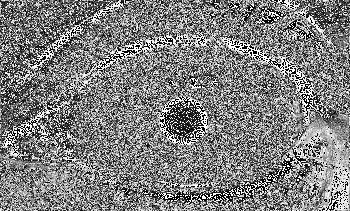
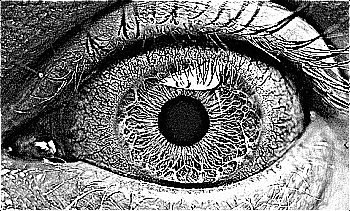
Ajuste da função de aguçamento. Algumas outras melhorias pequenas

diff --git a/main.py b/main.py
@@ -27,68 +27,68 @@ img2 = np.array(imagem2.getdata()).reshape((height2, width2, 1))
 
 
 
-# Filtragem com filtro media mascara 3 - IMG1
-print('Filtragem com filtro media mascara 3 - IMG1')
-mean_out = new_filter.mean(img).evaluate()
-newImage = Image.fromarray(mean_out.astype('uint8').reshape((height, width)), 'L')
-newImageName = path_out_imgs + "IMG1/" + 'IMG1_mean_3_out.png'
-newImage.save(newImageName)
+# # Filtragem com filtro media mascara 3 - IMG1
+# print('Filtragem com filtro media mascara 3 - IMG1')
+# mean_out = new_filter.mean(img).evaluate()
+# newImage = Image.fromarray(mean_out.astype('uint8').reshape((height, width)), 'L')
+# newImageName = path_out_imgs + "IMG1/" + 'IMG1_mean_3_out.png'
+# newImage.save(newImageName)
 
-# Filtragem com filtro media mascara 3 - IMG2
-print('Filtragem com filtro media mascara 3 - IMG2')
-mean_out = new_filter.mean(img2).evaluate()
-newImage = Image.fromarray(mean_out.astype('uint8').reshape((height2, width2)), 'L')
-newImageName = path_out_imgs + "IMG2/" + 'IMG2_mean_3_out.png'
-newImage.save(newImageName)
+# # Filtragem com filtro media mascara 3 - IMG2
+# print('Filtragem com filtro media mascara 3 - IMG2')
+# mean_out = new_filter.mean(img2).evaluate()
+# newImage = Image.fromarray(mean_out.astype('uint8').reshape((height2, width2)), 'L')
+# newImageName = path_out_imgs + "IMG2/" + 'IMG2_mean_3_out.png'
+# newImage.save(newImageName)
 
-# Filtragem com filtro media mascara 5 - IMG1
-print("Filtragem com filtro media mascara 5 - IMG1")
-mean_out = new_filter.mean(img, mask=5).evaluate()
-newImage = Image.fromarray(mean_out.astype('uint8').reshape((height, width)), 'L')
-newImageName = path_out_imgs + "IMG1/" + 'IMG1_mean_5_out.png'
-newImage.save(newImageName)
+# # Filtragem com filtro media mascara 5 - IMG1
+# print("Filtragem com filtro media mascara 5 - IMG1")
+# mean_out = new_filter.mean(img, mask=5).evaluate()
+# newImage = Image.fromarray(mean_out.astype('uint8').reshape((height, width)), 'L')
+# newImageName = path_out_imgs + "IMG1/" + 'IMG1_mean_5_out.png'
+# newImage.save(newImageName)
 
-# Filtragem com filtro media mascara 5 - IMG2
-print("Filtragem com filtro media mascara 5 - IMG2")
-mean_out = new_filter.mean(img2, mask=5).evaluate()
-newImage = Image.fromarray(mean_out.astype('uint8').reshape((height2, width2)), 'L')
-newImageName = path_out_imgs + "IMG2/" + 'IMG2_mean_5_out.png'
-newImage.save(newImageName)
+# # Filtragem com filtro media mascara 5 - IMG2
+# print("Filtragem com filtro media mascara 15 - IMG2")
+# mean_out = new_filter.mean(img2, mask=15).evaluate()
+# newImage = Image.fromarray(mean_out.astype('uint8').reshape((height2, width2)), 'L')
+# newImageName = path_out_imgs + "IMG2/" + 'IMG2_mean_15_out.png'
+# newImage.save(newImageName)
 
-# Filtragem com filtro gaussiano mascara 3 - IMG1
-print("Filtragem com filtro gaussiano mascara 3 - IMG1")
-gauss_out = new_filter.gaussian(img).evaluate()
-newImage = Image.fromarray(gauss_out.astype('uint8').reshape((height, width)), 'L')
-newImageName = path_out_imgs + "IMG1/" + 'IMG1_gauss_3_out.png'
-newImage.save(newImageName)
+# # Filtragem com filtro gaussiano mascara 3 - IMG1
+# print("Filtragem com filtro gaussiano mascara 3 - IMG1")
+# gauss_out = new_filter.gaussian(img).evaluate()
+# newImage = Image.fromarray(gauss_out.astype('uint8').reshape((height, width)), 'L')
+# newImageName = path_out_imgs + "IMG1/" + 'IMG1_gauss_3_out.png'
+# newImage.save(newImageName)
 
-# Filtragem com filtro gaussiano mascara 3 - IMG2
-print("Filtragem com filtro gaussiano mascara 3 - IMG2")
-gauss_out = new_filter.gaussian(img2).evaluate()
-newImage = Image.fromarray(gauss_out.astype('uint8').reshape((height2, width2)), 'L')
-newImageName = path_out_imgs + "IMG2/" + 'IMG2_gauss_3_out.png'
-newImage.save(newImageName)
+# # Filtragem com filtro gaussiano mascara 3 - IMG2
+# print("Filtragem com filtro gaussiano mascara 3 - IMG2")
+# gauss_out = new_filter.gaussian(img2).evaluate()
+# newImage = Image.fromarray(gauss_out.astype('uint8').reshape((height2, width2)), 'L')
+# newImageName = path_out_imgs + "IMG2/" + 'IMG2_gauss_3_out.png'
+# newImage.save(newImageName)
 
-# Filtragem com filtro gaussiano mascara 5 - IMG1
-print("Filtragem com filtro gaussiano mascara 5 - IMG1")
-gauss_out = new_filter.gaussian(img, mask=5).evaluate()
-newImage = Image.fromarray(gauss_out.astype('uint8').reshape((height, width)), 'L')
-newImageName = path_out_imgs + "IMG1/" + 'IMG1_gauss_5_out.png'
-newImage.save(newImageName)
+# # Filtragem com filtro gaussiano mascara 5 - IMG1
+# print("Filtragem com filtro gaussiano mascara 5 - IMG1")
+# gauss_out = new_filter.gaussian(img, mask=5).evaluate()
+# newImage = Image.fromarray(gauss_out.astype('uint8').reshape((height, width)), 'L')
+# newImageName = path_out_imgs + "IMG1/" + 'IMG1_gauss_5_out.png'
+# newImage.save(newImageName)
 
-# Filtragem com filtro gaussiano mascara 5 - IMG2
-print("Filtragem com filtro gaussiano mascara 5 - IMG2")
-gauss_out = new_filter.gaussian(img2, mask=5).evaluate()
-newImage = Image.fromarray(gauss_out.astype('uint8').reshape((height2, width2)), 'L')
-newImageName = path_out_imgs + "IMG2/" + 'IMG2_gauss_5_out.png'
-newImage.save(newImageName)
+# # Filtragem com filtro gaussiano mascara 5 - IMG2
+# print("Filtragem com filtro gaussiano mascara 5 - IMG2")
+# gauss_out = new_filter.gaussian(img2, mask=5).evaluate()
+# newImage = Image.fromarray(gauss_out.astype('uint8').reshape((height2, width2)), 'L')
+# newImageName = path_out_imgs + "IMG2/" + 'IMG2_gauss_5_out.png'
+# newImage.save(newImageName)
 
-# # Filtragem com filtro laplace mascara 3
-print('Filtragem com filtro laplace mascara 3')
-laplace_out = SharpeningFilter(img).evaluate()
-newImage = Image.fromarray(laplace_out.astype('uint8').reshape((height, width)), 'L')
-newImageName = path_out_imgs + 'IMG1/' + 'IMG1_laplace_3_out.png'
-newImage.save(newImageName)
+# # # Filtragem com filtro laplace mascara 3
+# print('Filtragem com filtro laplace mascara 3')
+# laplace_out = SharpeningFilter(img).evaluate()
+# newImage = Image.fromarray(laplace_out.astype('uint8').reshape((height, width)), 'L')
+# newImageName = path_out_imgs + 'IMG1/' + 'IMG1_laplace_3_out.png'
+# newImage.save(newImageName)
 
 # Filtragem com filtro laplace mascara 3
 print('Filtragem com filtro laplace mascara 3 IMG2')
@@ -97,78 +97,78 @@ newImage = Image.fromarray(laplace_out.astype('uint8').reshape((height2, width2)
 newImageName = path_out_imgs + 'IMG2/' + 'IMG2_laplace_3_out.png'
 newImage.save(newImageName)
 
-# Filtragem com filtro mediana mascara 3 - IMG1
-print("Filtragem com filtro mediana mascara 3 - IMG1")
-mean_out = rank_filter.median(img, mask=3).evaluate()
-newImage = Image.fromarray(mean_out.astype('uint8').reshape((height, width)), 'L')
-newImageName = path_out_imgs + "IMG1/" + 'IMG1_median_3_out.png'
-newImage.save(newImageName)
+# # Filtragem com filtro mediana mascara 3 - IMG1
+# print("Filtragem com filtro mediana mascara 3 - IMG1")
+# mean_out = rank_filter.median(img, mask=3).evaluate()
+# newImage = Image.fromarray(mean_out.astype('uint8').reshape((height, width)), 'L')
+# newImageName = path_out_imgs + "IMG1/" + 'IMG1_median_3_out.png'
+# newImage.save(newImageName)
 
-# Filtragem com filtro mediana mascara 3 - IMG2
-print("Filtragem com filtro mediana mascara 3 - IMG2")
-mean_out = rank_filter.median(img2, mask=3).evaluate()
-newImage = Image.fromarray(mean_out.astype('uint8').reshape((height2, width2)), 'L')
-newImageName = path_out_imgs + "IMG2/" + 'IMG2_median_3_out.png'
-newImage.save(newImageName)
+# # Filtragem com filtro mediana mascara 3 - IMG2
+# print("Filtragem com filtro mediana mascara 3 - IMG2")
+# mean_out = rank_filter.median(img2, mask=3).evaluate()
+# newImage = Image.fromarray(mean_out.astype('uint8').reshape((height2, width2)), 'L')
+# newImageName = path_out_imgs + "IMG2/" + 'IMG2_median_3_out.png'
+# newImage.save(newImageName)
 
-# Filtragem com filtro mediana mascara 5 - IMG1
-print("Filtragem com filtro mediana mascara 5 - IMG1")
-mean_out = rank_filter.median(img, mask=5).evaluate()
-newImage = Image.fromarray(mean_out.astype('uint8').reshape((height, width)), 'L')
-newImageName = path_out_imgs + "IMG1/" + 'IMG1_median_5_out.png'
-newImage.save(newImageName)
+# # Filtragem com filtro mediana mascara 5 - IMG1
+# print("Filtragem com filtro mediana mascara 5 - IMG1")
+# mean_out = rank_filter.median(img, mask=5).evaluate()
+# newImage = Image.fromarray(mean_out.astype('uint8').reshape((height, width)), 'L')
+# newImageName = path_out_imgs + "IMG1/" + 'IMG1_median_5_out.png'
+# newImage.save(newImageName)
 
-# Filtragem com filtro mediana mascara 5 - IMG2
-print("Filtragem com filtro mediana mascara 5 - IMG2")
-mean_out = rank_filter.median(img2, mask=5).evaluate()
-newImage = Image.fromarray(mean_out.astype('uint8').reshape((height2, width2)), 'L')
-newImageName = path_out_imgs + "IMG2/" + 'IMG2_median_5_out.png'
-newImage.save(newImageName)
+# # Filtragem com filtro mediana mascara 5 - IMG2
+# print("Filtragem com filtro mediana mascara 5 - IMG2")
+# mean_out = rank_filter.median(img2, mask=5).evaluate()
+# newImage = Image.fromarray(mean_out.astype('uint8').reshape((height2, width2)), 'L')
+# newImageName = path_out_imgs + "IMG2/" + 'IMG2_median_5_out.png'
+# newImage.save(newImageName)
 
-# Filtragem com filtro de máximo mascara 3 - IMG1
-print("Filtragem com filtro de maximo mascara 3 - IMG1")
-mean_out = rank_filter.maximum(img, mask=3).evaluate()
-newImage = Image.fromarray(mean_out.astype('uint8').reshape((height, width)), 'L')
-newImageName = path_out_imgs + "IMG1/" + 'IMG1_max_3_out.png'
-newImage.save(newImageName)
+# # Filtragem com filtro de máximo mascara 3 - IMG1
+# print("Filtragem com filtro de maximo mascara 3 - IMG1")
+# mean_out = rank_filter.maximum(img, mask=3).evaluate()
+# newImage = Image.fromarray(mean_out.astype('uint8').reshape((height, width)), 'L')
+# newImageName = path_out_imgs + "IMG1/" + 'IMG1_max_3_out.png'
+# newImage.save(newImageName)
 
-# Filtragem com filtro máximo mascara 3 - IMG2
-print("Filtragem com filtro de maximo mascara 3 - IMG2")
-mean_out = rank_filter.maximum(img2, mask=3).evaluate()
-newImage = Image.fromarray(mean_out.astype('uint8').reshape((height2, width2)), 'L')
-newImageName = path_out_imgs + "IMG2/" + 'IMG2_max_3_out.png'
-newImage.save(newImageName)
+# # Filtragem com filtro máximo mascara 3 - IMG2
+# print("Filtragem com filtro de maximo mascara 3 - IMG2")
+# mean_out = rank_filter.maximum(img2, mask=3).evaluate()
+# newImage = Image.fromarray(mean_out.astype('uint8').reshape((height2, width2)), 'L')
+# newImageName = path_out_imgs + "IMG2/" + 'IMG2_max_3_out.png'
+# newImage.save(newImageName)
 
-# Filtragem com filtro de máximo mascara 5 - IMG1
-print("Filtragem com filtro de maximo mascara 5 - IMG1")
-mean_out = rank_filter.maximum(img, mask=5).evaluate()
-newImage = Image.fromarray(mean_out.astype('uint8').reshape((height, width)), 'L')
-newImageName = path_out_imgs + "IMG1/" + 'IMG1_max_5_out.png'
-newImage.save(newImageName)
+# # Filtragem com filtro de máximo mascara 5 - IMG1
+# print("Filtragem com filtro de maximo mascara 5 - IMG1")
+# mean_out = rank_filter.maximum(img, mask=5).evaluate()
+# newImage = Image.fromarray(mean_out.astype('uint8').reshape((height, width)), 'L')
+# newImageName = path_out_imgs + "IMG1/" + 'IMG1_max_5_out.png'
+# newImage.save(newImageName)
 
-# Filtragem com filtro máximo mascara 5 - IMG2
-print("Filtragem com filtro de maximo mascara 5 - IMG2")
-mean_out = rank_filter.maximum(img2, mask=5).evaluate()
-newImage = Image.fromarray(mean_out.astype('uint8').reshape((height2, width2)), 'L')
-newImageName = path_out_imgs + "IMG2/" + 'IMG2_max_5_out.png'
-newImage.save(newImageName)
+# # Filtragem com filtro máximo mascara 5 - IMG2
+# print("Filtragem com filtro de maximo mascara 5 - IMG2")
+# mean_out = rank_filter.maximum(img2, mask=5).evaluate()
+# newImage = Image.fromarray(mean_out.astype('uint8').reshape((height2, width2)), 'L')
+# newImageName = path_out_imgs + "IMG2/" + 'IMG2_max_5_out.png'
+# newImage.save(newImageName)
 
-#Equalização de Histograma - IMG1
-print("Equalização de Histograma - IMG1")
-imgName = path_out_imgs + "IMG1/" + "IMG1"
-hist_eq1 = HistogramEqualization(img,colorDepth,imgName)
-img_out = hist_eq1.evaluate()
-newImage = Image.fromarray(img_out.astype('uint8').reshape((height, width)), 'L')
-newImageName = path_out_imgs + "IMG1/" + 'IMG1_hist_eq_out.png'
-newImage.save(newImageName)
+# #Equalização de Histograma - IMG1
+# print("Equalização de Histograma - IMG1")
+# imgName = path_out_imgs + "IMG1/" + "IMG1"
+# hist_eq1 = HistogramEqualization(img,colorDepth,imgName)
+# img_out = hist_eq1.evaluate()
+# newImage = Image.fromarray(img_out.astype('uint8').reshape((height, width)), 'L')
+# newImageName = path_out_imgs + "IMG1/" + 'IMG1_hist_eq_out.png'
+# newImage.save(newImageName)
 
-#Equalização de Histograma - IMG2
-print("Equalização de Histograma - IMG2")
-imgName = path_out_imgs + "IMG2/" + "IMG2"
-hist_eq2 = HistogramEqualization(img2,colorDepth,imgName)
-img_out = hist_eq2.evaluate()
-newImage = Image.fromarray(img_out.astype('uint8').reshape((height2, width2)), 'L')
-newImageName = path_out_imgs + "IMG2/" + 'IMG2_hist_eq_out.png'
-newImage.save(newImageName)
+# #Equalização de Histograma - IMG2
+# print("Equalização de Histograma - IMG2")
+# imgName = path_out_imgs + "IMG2/" + "IMG2"
+# hist_eq2 = HistogramEqualization(img2,colorDepth,imgName)
+# img_out = hist_eq2.evaluate()
+# newImage = Image.fromarray(img_out.astype('uint8').reshape((height2, width2)), 'L')
+# newImageName = path_out_imgs + "IMG2/" + 'IMG2_hist_eq_out.png'
+# newImage.save(newImageName)
 
-print("Fim")
+# print("Fim")

diff --git a/src/Filters/Sharpening.py b/src/Filters/Sharpening.py
@@ -50,7 +50,12 @@ class SharpeningFilter:
 
         laplace_mask = self.build_laplace_mask(side)
 
-        return int(sum([pixel *multiplier for pixel, multiplier in zip(pixels, laplace_mask)]))
+        new_value = int(sum([pixel *multiplier for pixel, multiplier in zip(pixels, laplace_mask)]))
+
+        new_value = 255 if new_value > 255 else new_value
+        new_value = 0 if new_value < 0 else new_value
+
+        return new_value
     
 
     @staticmethod

diff --git a/src/Filters/Suavization.py b/src/Filters/Suavization.py
@@ -39,7 +39,7 @@ class SuavizationFilter:
     def evaluate(self):
         """
 
-        Apply the selectef filter function of self.func to all image.
+        Apply the selected filter function of self.func to all image.
         This method iterates all pixels and mount the respective mask with the mask size from
         self.mask.
 
